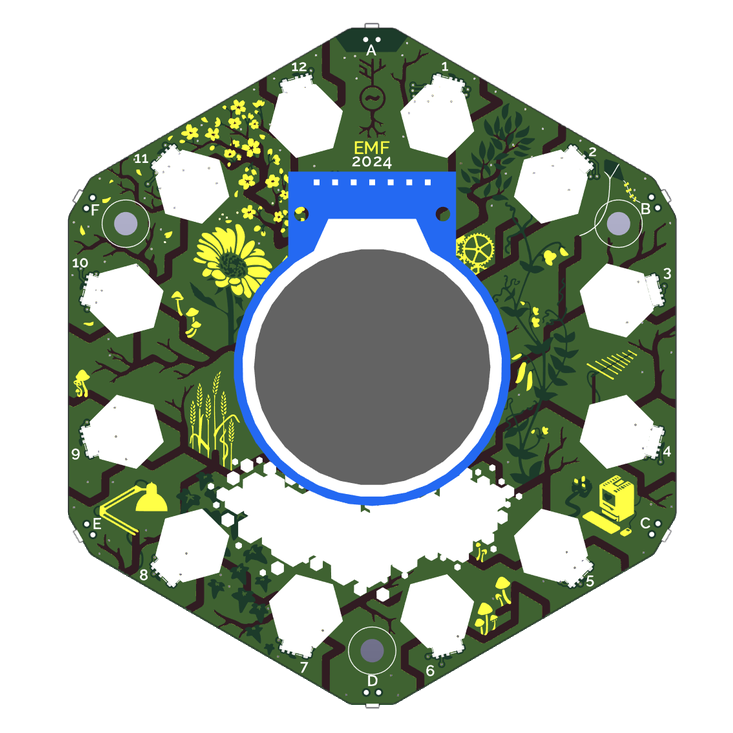
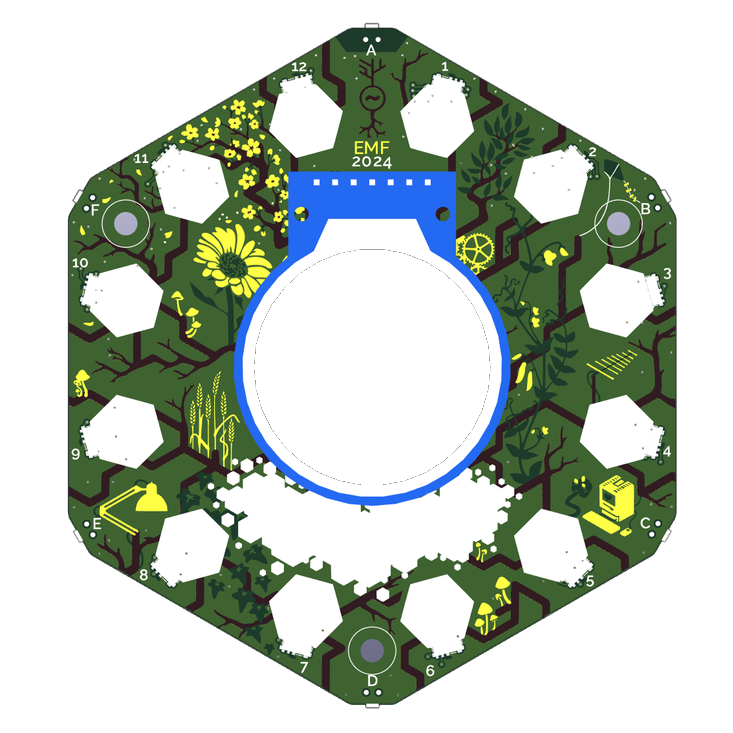
Make the screen round
Make the screen part of the background image transparent, put the screen
canvas behind it and tweak to coordinates so that they exactly align

Changed region(s): [[0.3302, 0.3302, 0.6903, 0.6603]]

diff --git a/index.html b/index.html
@@ -36,10 +36,15 @@
         }
       }
 
+      #badge {
+        position: relative;
+        z-index: 1;
+      }
+
       #screen {
         position: absolute;
-        top: 237px;
-        left: 242px;
+        top: 247px;
+        left: 252px;
       }
 
       #led0 {
@@ -126,6 +131,10 @@
 
 
     <section style="position: relative">
+      <div id="screen">
+        <!-- id="c" is targetted by the ctx WASM for output -->
+        <canvas id="c" width="240" height="240"></canvas>
+      </div>
       <div id="badge"><img src="background.png"></img></div>
       <div style="display: flex; flex-direction: column; gap: 1em; width: 600px;">
         <div id="led0">
@@ -175,10 +184,6 @@
         <button onclick="pressButton('F')">F 🔙</button>
       </div>
 
-      <div id="screen">
-        <!-- id="c" is targetted by the ctx WASM for output -->
-        <canvas id="c" width="240" height="240"></canvas>
-      </div>
 
     </section>
 